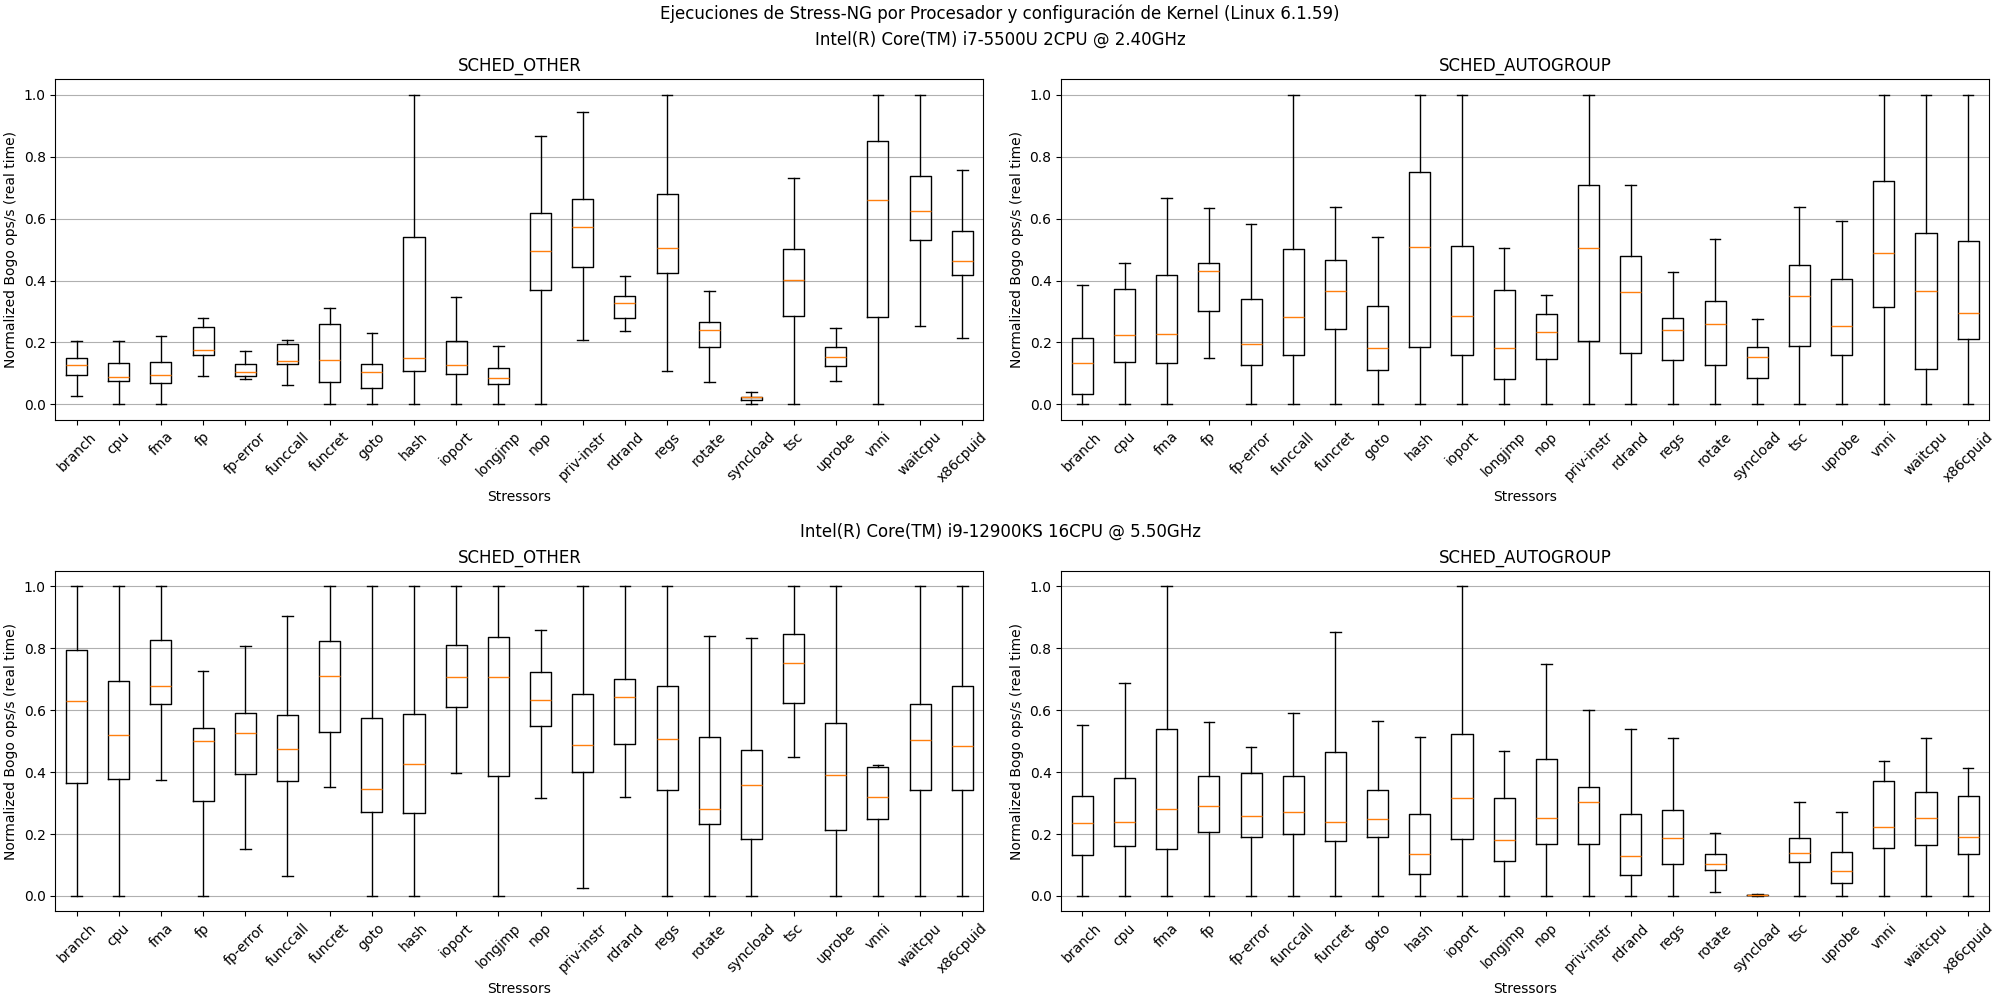
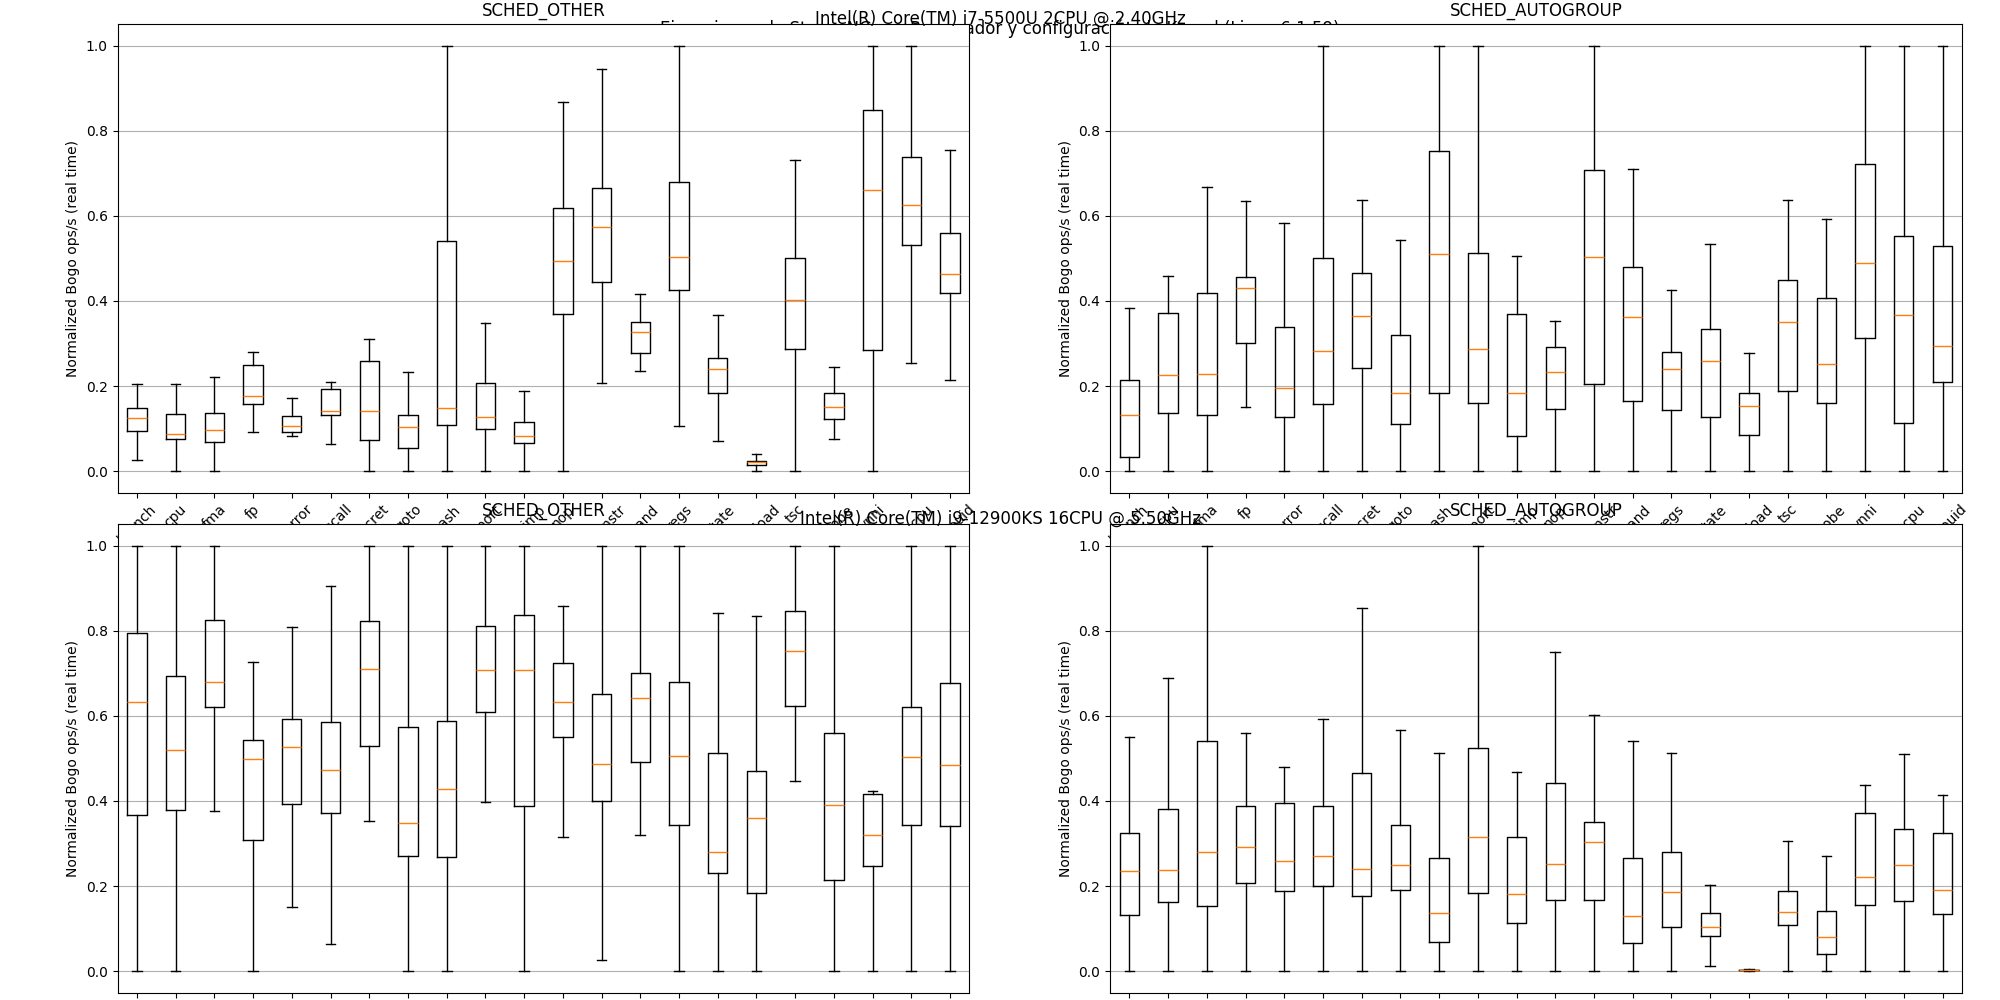
feat: add stressors maps

Changed region(s): [[0.0, 0.0, 1.0, 1.0], [0.713, 0.62, 0.744, 0.651], [0.651, 0.62, 0.682, 0.651]]

diff --git a/main.py b/main.py
@@ -1,5 +1,6 @@
 """Generate BoxPlots from the stress-ng executions."""
 
+import copy
 import itertools
 import os
 from matplotlib import pyplot as plt
@@ -7,7 +8,7 @@ from matplotlib.colors import ListedColormap
 import pandas as pd
 import numpy as np
 
-from lib.utils import PROCESSOR, SCHEDULERS
+from lib.utils import PROCESSOR, SCHEDULERS, get_subplot_shape
 from lib.utils import list_reports
 from lib.utils import read_content
 
@@ -21,6 +22,7 @@ if __name__ == "__main__":
     means = dict()
 
     # Parse stress-ng results from files
+    n_stressors = 0
     for processor, scheduler in itertools.product(PROCESSOR, SCHEDULERS):
         # Initiallize per chip-sched
         if processor not in results:
@@ -41,6 +43,9 @@ if __name__ == "__main__":
                     results[processor][scheduler][stressor] = []
                 results[processor][scheduler][stressor].append(v)
 
+    # Keep a copy for raw analysis
+    original_results = copy.deepcopy(results)
+
     # Normalize with Min-Max
     if is_normalized:
         for processor, schedulers in results.items():
@@ -59,12 +64,56 @@ if __name__ == "__main__":
     n_processors = len(results.keys())
     n_schedulers = len(results.items())
 
-    fig = plt.figure(constrained_layout=True, figsize=(20, 10))
+    #
+    # Graficar todas el histograma de las pruebas de
+    #
+    n_stressors = 0
+    for schedulers in results.values():
+        for stressors in schedulers.values():
+            n_stressors = max(n_processors, len(stressors))
+
+    nrows, ncols = get_subplot_shape(n_stressors)
+    for processor, schedulers in original_results.items():
+        for scheduder, stressors in schedulers.items():
+            fig, axs = plt.subplots(nrows, ncols, figsize=(20, 10), tight_layout=True)
+            fig.suptitle(
+                f"Ejecuciones de Stress-NG para Procesador {processor} y Kernel (Linux 6.1.59) + {scheduder}",
+                size=20,
+            )
+            # Iterate by stressor to generate one plot with all executions
+            for n, stressor in enumerate(stressors):
+                bogos = stressors[stressor]
+                row = n // ncols
+                if n % ncols == 0:
+                    col = 0
+                else:
+                    col += 1
+
+                ylabel = "" if col else "Bogo ops/s (real time)"
+                # Valores
+                ax = axs[row][col]
+                ax.plot(bogos, linewidth=1, label="bogus operations per second")
+                ax.axhline(
+                    np.mean(bogos), color="red", linestyle="--", label="Promedio"
+                )
+                # Etiquetas
+                ax.ticklabel_format(style="plain")
+                ax.yaxis.grid(False)
+                ax.set_ylabel(ylabel)
+                ax.set_title(stressor)
+
+            handles, labels = plt.gca().get_legend_handles_labels()
+            fig.legend(handles, labels, loc="lower right", ncols=len(labels))
+            fig.supxlabel("Ciclos")
+            plt.savefig(f"images/stressors_{processor}_{scheduder}.png")
+
+    #
+    # Graficar boxplot de las ejecuciones
+    #
+    fig = plt.figure(constrained_layout=True, figsize=(20, 10), tight_layout=True)
     fig.suptitle(
         "Ejecuciones de Stress-NG por Procesador y configuración de Kernel (Linux 6.1.59)"
     )
-
-    # create subfigs
     subfigs = fig.subfigures(nrows=n_processors, ncols=1)
     for row, subfig_processor in enumerate(zip(subfigs, results)):
         subfig, processor = subfig_processor
@@ -92,7 +141,9 @@ if __name__ == "__main__":
             ax.yaxis.grid(True)
     plt.savefig("images/ejecuciones.png")
 
-    # Graficar coeficientes
+    #
+    # Graficar coeficientes de varición
+    #
     stressors = tuple(variations[processor][scheduder].keys())
     x = np.arange(len(stressors))
     width = 0.2
@@ -115,7 +166,6 @@ if __name__ == "__main__":
     ax.set_ylabel("Coeficiente de Variación")
     ax.yaxis.grid(True)
     ax.legend(loc="upper left", ncols=2)
-    plt.show()
     plt.savefig("images/coeficientes.png")
 
     # Graficar el resumen de valores
@@ -125,8 +175,10 @@ if __name__ == "__main__":
     ax.axis("off")
     ax.axis("tight")
 
+    #
     # Tabla
-    delta_template = "Cambio fraccionario ({})"
+    #
+    delta_template = "Cambio fraccionario ({}) %"
     means_df = pd.DataFrame()
     for processor, schedulers in means.items():
         # Keep track of the schedulers to calculat the delta
@@ -137,11 +189,10 @@ if __name__ == "__main__":
             scheduder_columns.append(attribute)
         attribute = delta_template.format(processor)
         means_df[attribute] = (
-            (means_df[scheduder_columns[-1]] - means_df[scheduder_columns[0]])
+            100
+            * (means_df[scheduder_columns[-1]] - means_df[scheduder_columns[0]])
             / means_df[scheduder_columns[0]]
-            * 100
         )
-
     # Preparar colores para
     colors = []
     n_rows, n_col = means_df.shape
@@ -153,20 +204,19 @@ if __name__ == "__main__":
         for processor in PROCESSOR
     ]
     for row_name, row in means_df.iterrows():
-        colors_in_column = ("aliceblue " * n_col).split()
+        colors_in_column = ("white " * n_col).split()
         for i, col_name in index_processors:
-            colors_in_column[i] = "tomato" if row[col_name] < 0 else "lightgreen"
+            colors_in_column[i] = "tomato" if row[col_name] <= 0 else "lightgreen"
         colors.append(colors_in_column)
 
-    # Graficar
     ax.table(
-        cellText=means_df.astype(np.int32).to_numpy(),
+        cellText=means_df.to_numpy().round(2),
         cellColours=colors,
-        cellLoc="center",
+        cellLoc="right",
         rowLabels=stressors.index,
         colLabels=means_df.columns,
         loc="center",
     )
     fig.tight_layout()
-    plt.show()
     plt.savefig("images/tabla.png")
+    means_df.to_excel("reports/means.xlsx")
